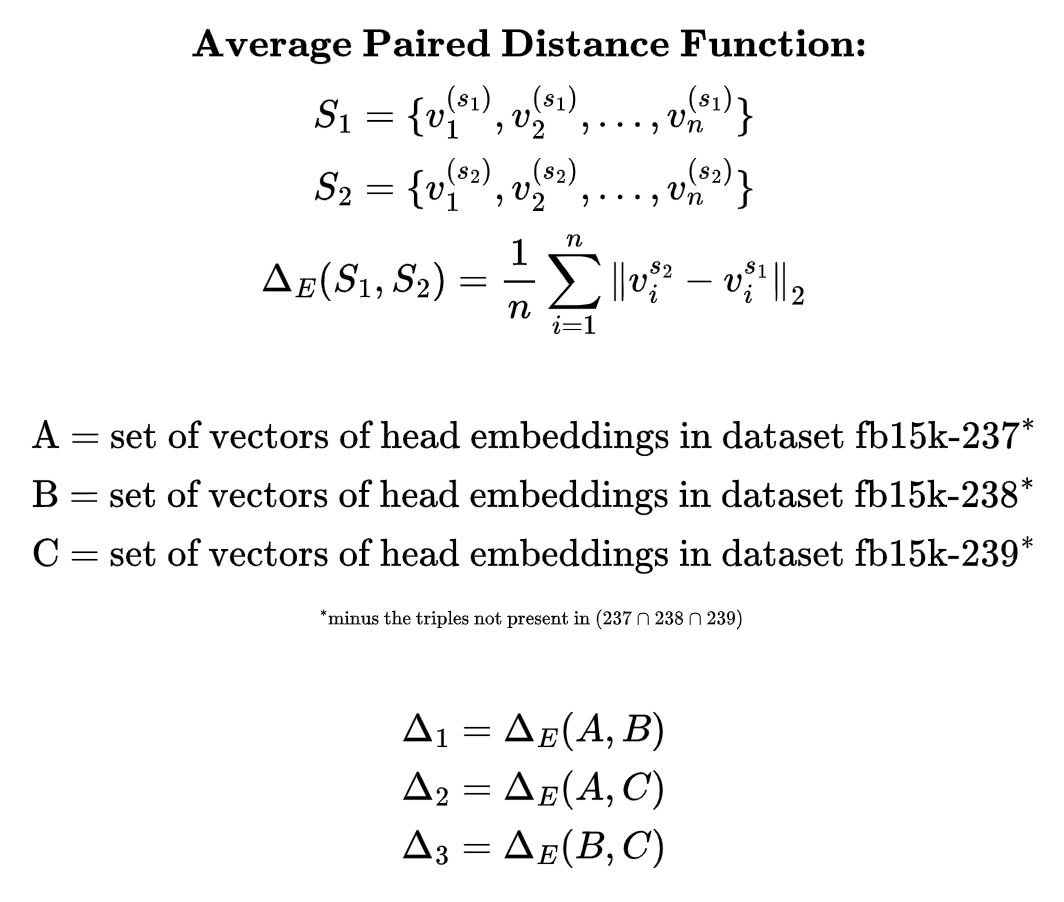
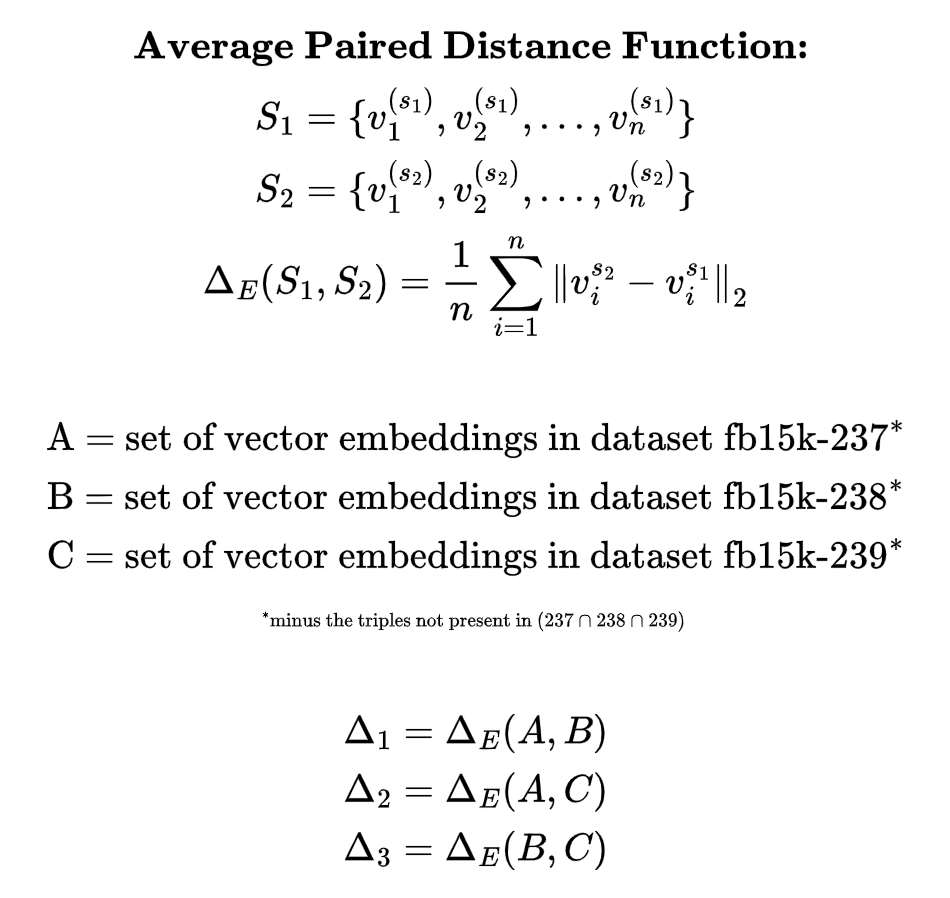
updated equation

diff --git a/kge-drift/README.md b/kge-drift/README.md
@@ -40,7 +40,7 @@ This script compares the files outputted by grab_matrices.py and shows which are
 ## Calculation and Visualization
 
 ### calc_drift.py 
-Calculates the average euclidean distance between all head entity embeddings in triples shared across datasets. 
+Calculates the average euclidean distance between embeddings of elements of triples shared across the datasets. 
 
 
 <img src = "./img/LatexADF.png" width = "380"></img>
